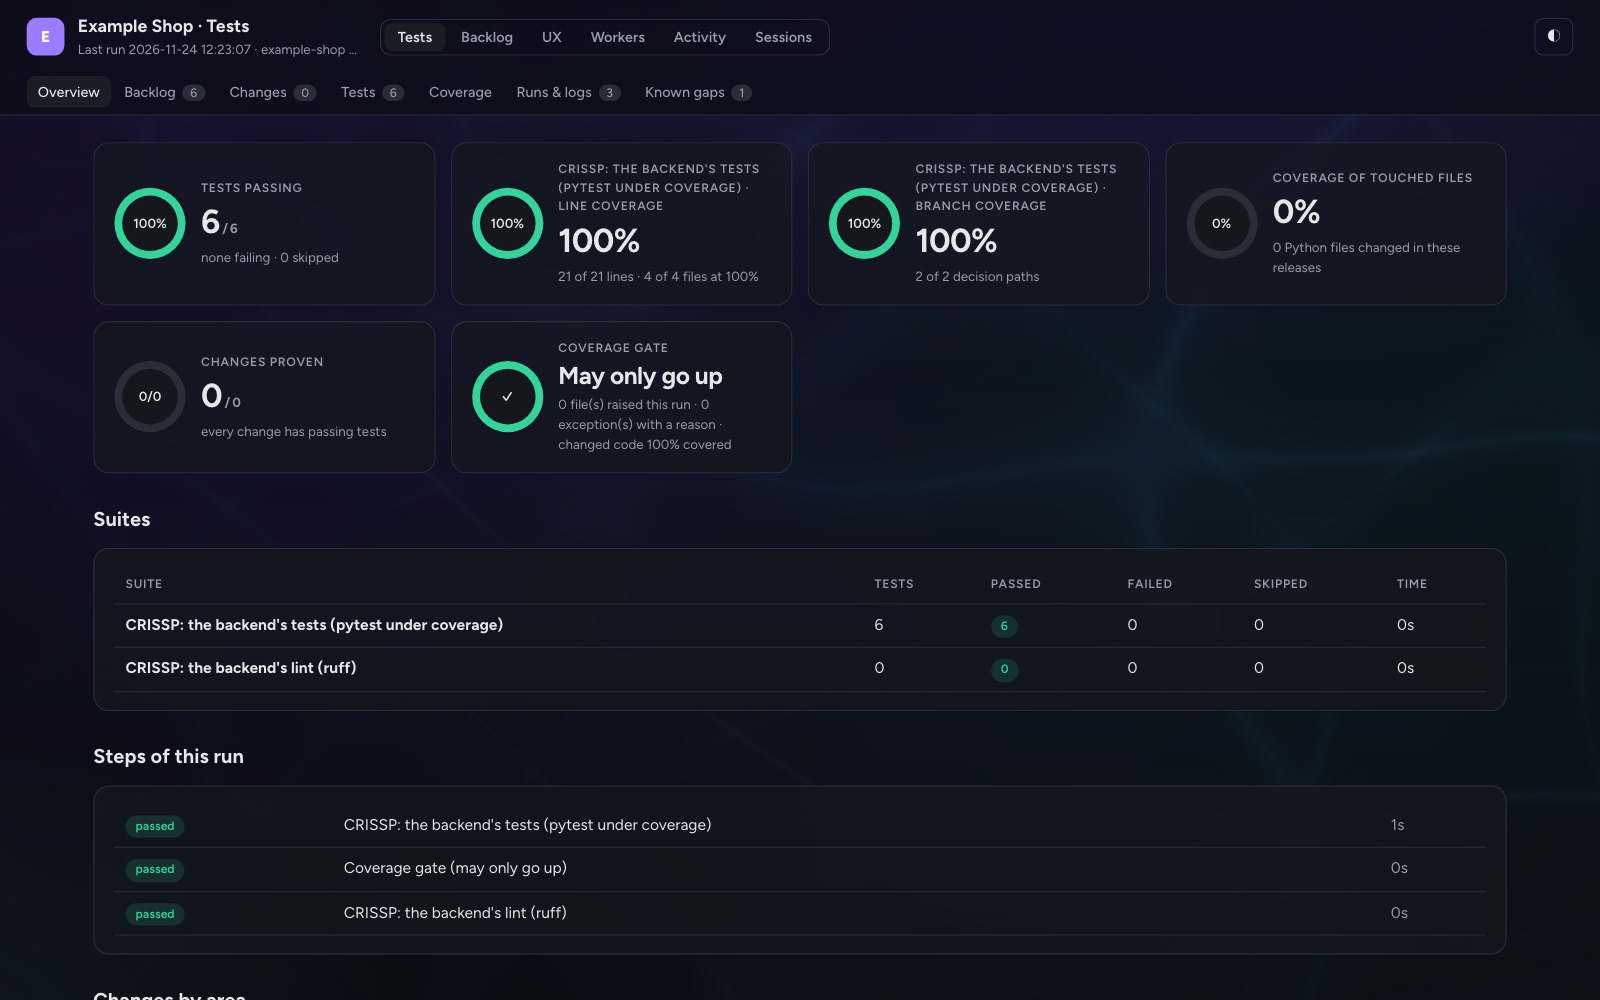
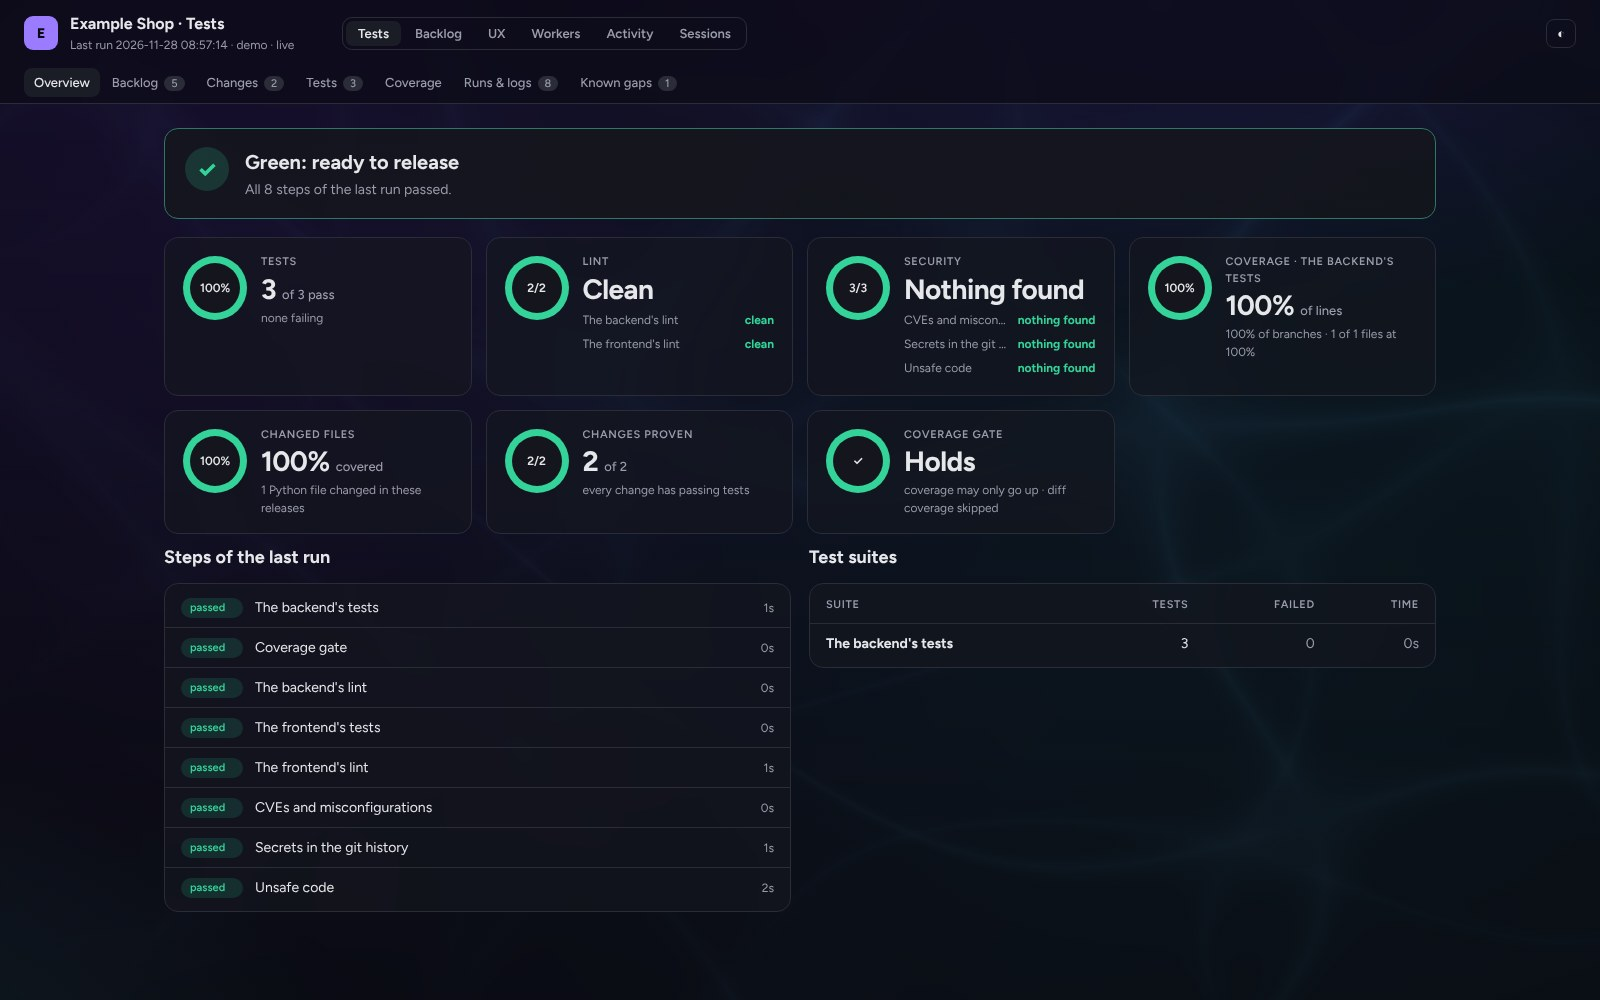
Docs: new Tests dashboard screenshots for the README and the website
The README and the website showed the dashboard before F-70 to F-73. New
pictures from a generic demo project (Example Shop, made with crissp init):
dashboard.jpg when the run is green (the verdict, Lint, Security, coverage,
the steps) and, new, dashboard-red.jpg when it is not (the failed steps
linked to their logs, lint problems and scan findings per part). Same size
as the others (1600 x 1000).

Claude-Session: https://claude.ai/code/session_01XMMATW8o3B41JT3i2LjE99

diff --git a/site/index.html b/site/index.html
@@ -87,7 +87,8 @@ Release gate: <span class="ok">green</span> · deploying 3f2a9c1</pre>
     <h2>One local dashboard for the tests, the board, the UX team and what Claude is doing now.</h2>
     <div class="shots">
       <figure class="card shot wide"><img src="images/ux-design.jpg" alt="A design: the screen as it is now next to the designer's proposal, with Approve, Approve with a remark, Again and Reject" loading="lazy"><figcaption><b>Before and after, then approve.</b> What people see now next to the design, the same size. Your remark goes into the backlog item.</figcaption></figure>
-      <figure class="card shot"><img src="images/dashboard.jpg" alt="The Tests dashboard: tests passing, line and branch coverage, the coverage gate" loading="lazy"><figcaption><b>What the last run proved:</b> tests, coverage, the gate, every step.</figcaption></figure>
+      <figure class="card shot"><img src="images/dashboard.jpg" alt="The Tests dashboard: Green, ready to release, with the tests, lint, security, coverage and the gate, and every step of the run" loading="lazy"><figcaption><b>Ready to release?</b> The answer first, then the tests, lint, security, coverage and every step.</figcaption></figure>
+      <figure class="card shot"><img src="images/dashboard-red.jpg" alt="The Tests dashboard when a run is red: Not ready to release, the failed steps as links to their logs, lint problems and security findings per part" loading="lazy"><figcaption><b>And when it is not:</b> what stops the release, each linked to its log, and what lint and the scans found.</figcaption></figure>
       <figure class="card shot wide"><img src="images/activity.jpg" alt="The Activity page: a busy Claude session, its orchestrator's current step and three agents, two running and one finished" loading="lazy"><figcaption><b>What Claude is doing now.</b> Per session the orchestrator's current step and every agent it started, running first, live.</figcaption></figure>
       <figure class="card shot"><img src="images/board.jpg" alt="The backlog board: moved recently, from where to where and in which commit, above the lanes per status" loading="lazy"><figcaption><b>The board and how it moved:</b> from where to where, when, in which commit or not committed yet. Only you move work to done.</figcaption></figure>
       <figure class="card shot"><img src="images/workers.jpg" alt="The workers page: this machine's CPUs and memory, and a step's tests spread over three workers" loading="lazy"><figcaption><b>The workers:</b> a step's tests spread over what this machine has, worker by worker.</figcaption></figure>

diff --git a/README.md b/README.md
@@ -52,8 +52,13 @@ One local server (`crissp dashboard`, on 127.0.0.1) shows the tests, the backlog
 what Claude is doing now, under one top bar (Tests · Backlog · UX · Workers · Activity · Sessions) in one dark look (a
 light theme is one click away). It never runs a test and loads nothing from the internet.
 
-**What the last run proved**: tests, line and branch coverage, the coverage gate, every step.
+**Ready to release?** The answer comes first: green, or which steps stop the release, each linked to its log. Then the
+tests, the lint of the backend and the frontend, the security scans (CVEs, secrets in the git history, unsafe code),
+line and branch coverage, the coverage gate and every step.
 ![The Tests dashboard](https://raw.githubusercontent.com/richardedens/crissp/main/docs/images/dashboard.jpg)
+
+**And when it is not**: the failed steps, and what lint and the scans found in each part.
+![The Tests dashboard when a run is red](https://raw.githubusercontent.com/richardedens/crissp/main/docs/images/dashboard-red.jpg)
 
 **What Claude is doing now** (Activity): per session the question asked, what the orchestrator does at this moment and
 for how long, and every agent it started, running ones first, each with its own current step. Read live from Claude
@@ -81,7 +86,7 @@ item, and your remark is the first thing the builder reads in it.
 **The team**: who they are, which device they use and what they look for, configured per product.
 ![The UX team](https://raw.githubusercontent.com/richardedens/crissp/main/docs/images/ux-team.jpg)
 
-<sub>The pictures show a demo project made with `crissp init` (0.1.4). Its backlog and its moves, test run, workers and
+<sub>The pictures show demo projects made with `crissp init` (the Tests dashboard with 0.1.10, the rest with 0.1.4). Its backlog and its moves, test run, workers and
 screenshots are real; the UX round's and the design's text and the Claude session on the Activity page are samples,
 because a real round runs on your own Claude login and costs tokens.</sub>
 
